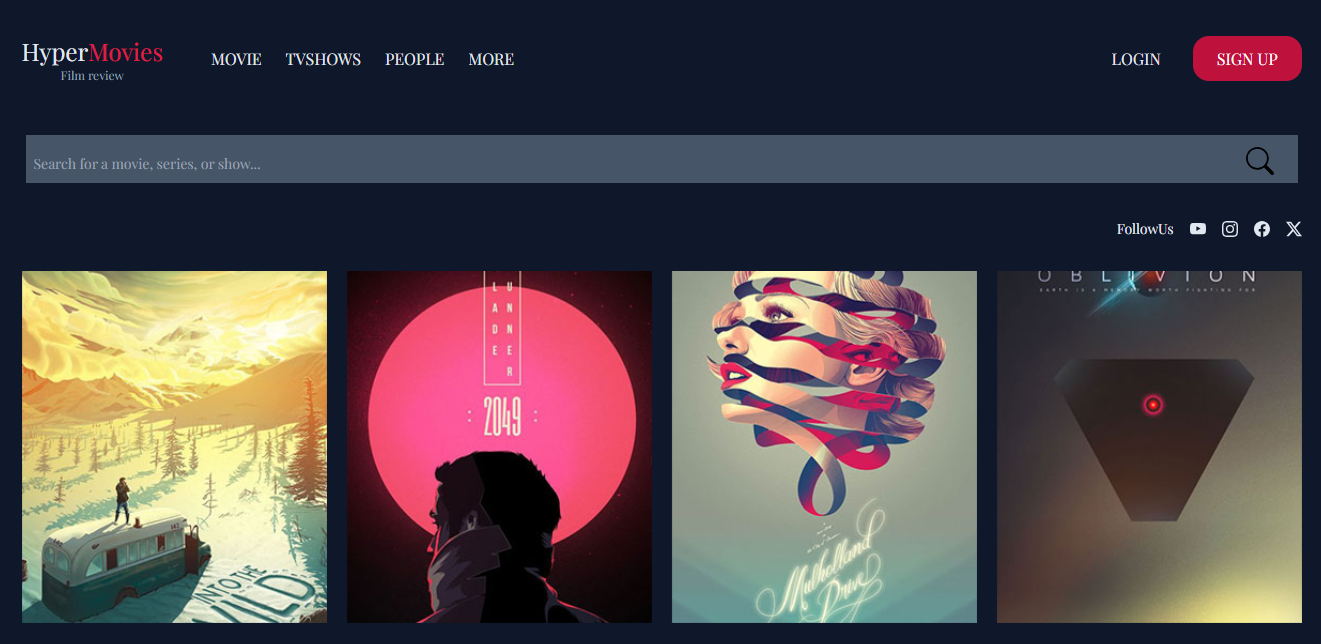
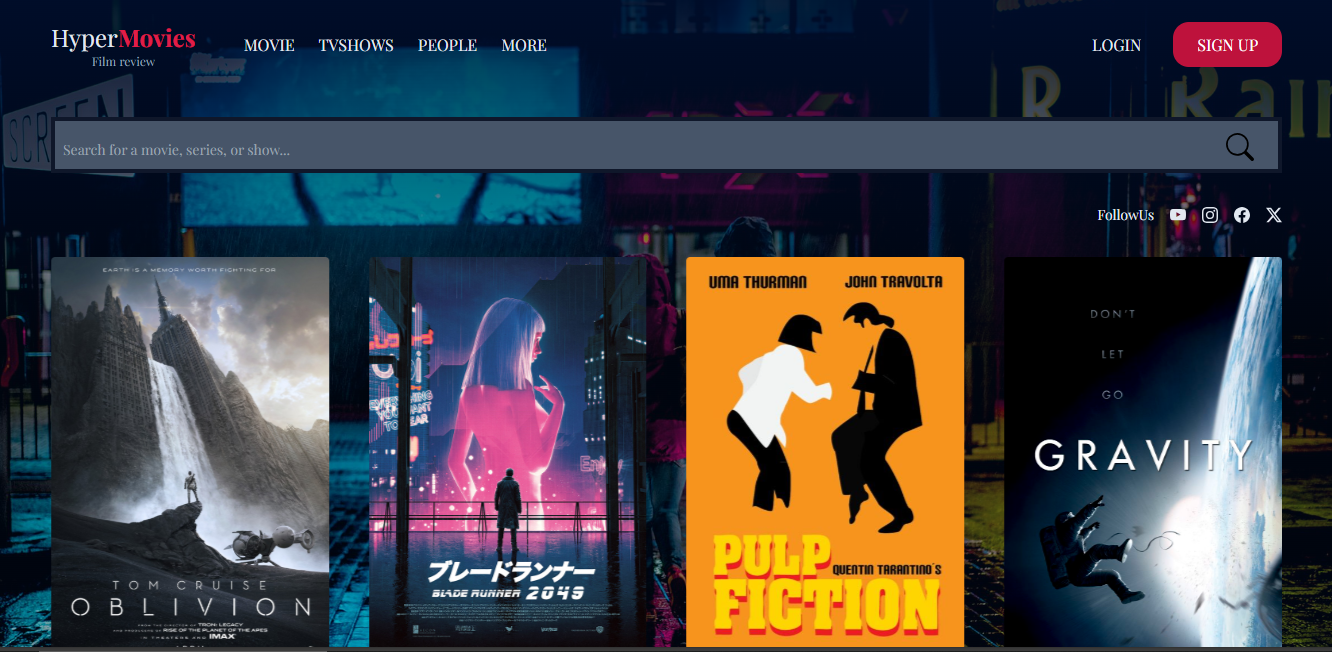
main

diff --git a/src/component/header/headerSlider.jsx b/src/component/header/headerSlider.jsx
@@ -30,8 +30,6 @@ export const HeaderSlider = ({ setHeaderBg }) => {
           },
         }}
         modules={[Autoplay]}
-        slidesPerView={0}
-        spaceBetween={0}
         autoplay={{ delay: 2000 }}
         loop
       >
@@ -39,7 +37,7 @@ export const HeaderSlider = ({ setHeaderBg }) => {
           <SwiperSlide key={number}>
             <img
               onMouseOver={handelBg}
-              className="w-full  lg:h-[380px]  rounded object-cover"
+              className="w-full rounded object-cover"
               src={`/images/header-poster${number}.jpg`}
             />
           </SwiperSlide>
